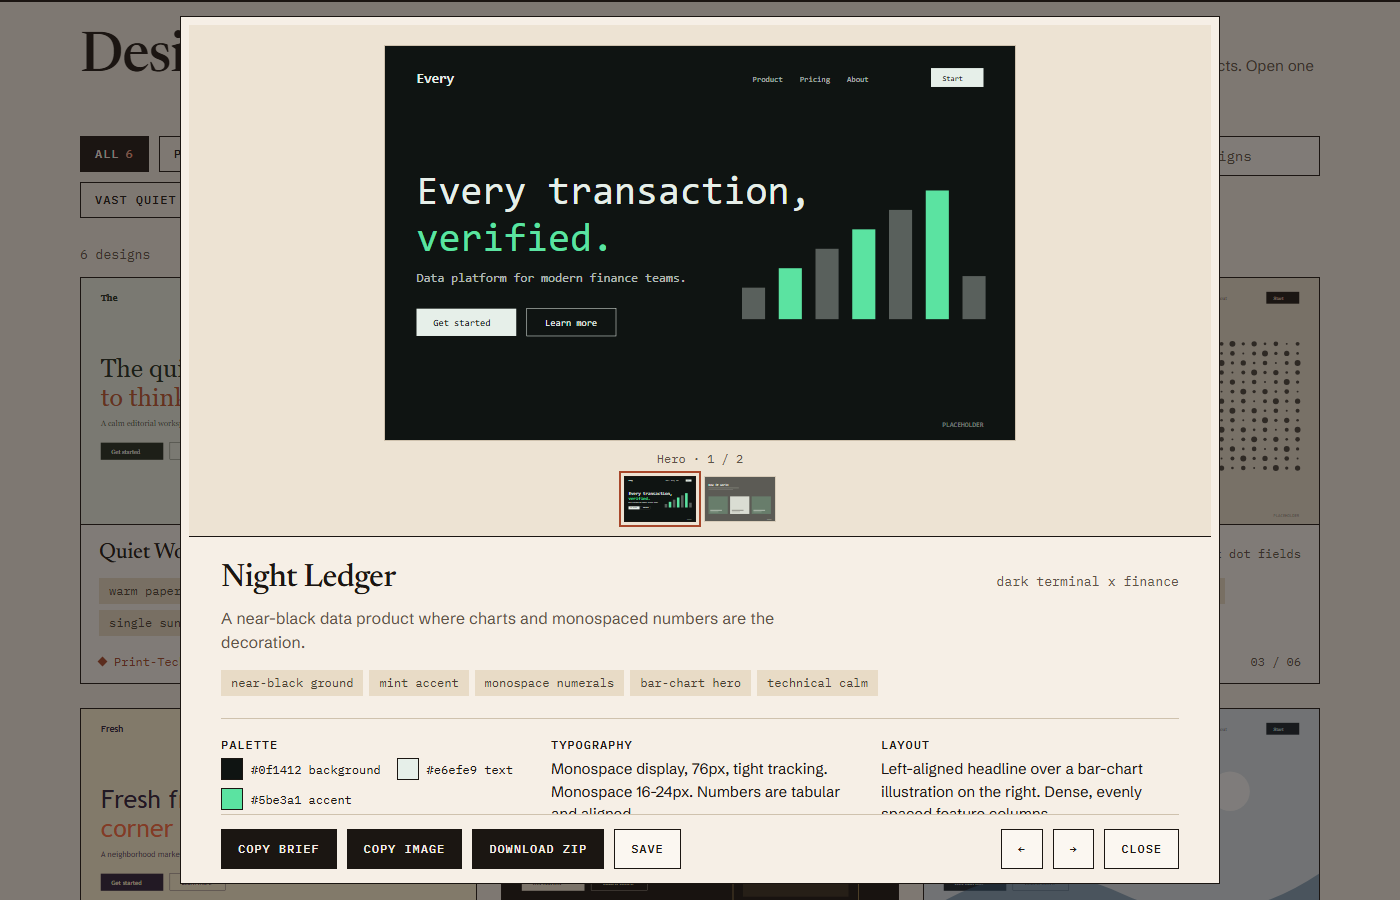
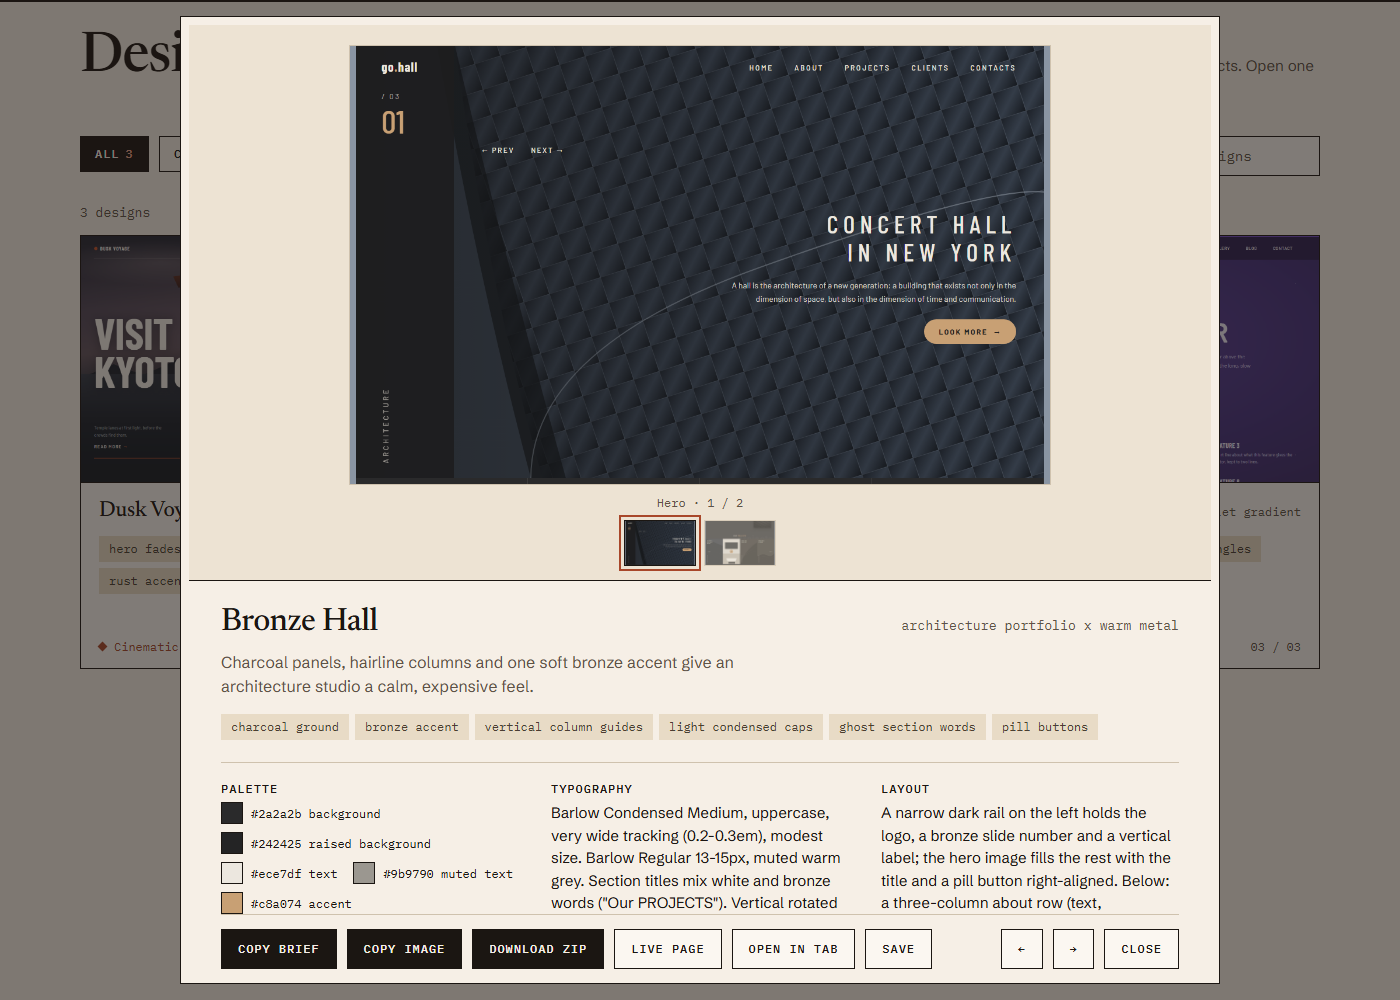
docs: describe the mock-page workflow and refresh screenshots

diff --git a/README.md b/README.md
@@ -6,12 +6,12 @@ A personal library of web design references. I collect designs I like, describe 
 
 ![A design's detail view with the brief and hand-off buttons](docs/screenshot-detail.png)
 
-> The six designs in the repo are placeholders I generated to demo the layout. They have no real source. Real entries come from my own Dribbble collection.
+> Each design is an original mock page I built from a reference screenshot, with made-up content. The pattern and the feeling are the point, not the copy. The raw reference screenshots stay on my computer.
 
 ## What it does
 
 - **Browse** a grid of designs with category filters, live search and a saved list.
-- **Open** a design to see its screenshots, palette, typography, layout and style notes.
+- **Open** a design to see its screenshots, palette, typography, layout and style notes, or switch to the live mock page and scroll it.
 - **Hand off** a design to another Claude session:
   - *Copy brief* copies a structured markdown brief. It lists the image file paths and tells the session to look at them first.
   - *Copy image* puts the current screenshot on the clipboard, ready to paste into a chat.
@@ -33,9 +33,8 @@ It opens <http://localhost:4173>. Use `PORT=4180 node server.mjs` if that port i
 
 ## Add a design
 
-1. Put the screenshots in `images/<design-id>/`.
-2. Copy an entry in `data/designs.js` and fill it in.
-3. Reload the page.
+1. Drop the reference screenshot in `inbox/` and ask Claude for a new batch. It builds the mock page in `designs/<design-id>/`, screenshots it into `images/<design-id>/`, and writes the entry.
+2. Or do it by hand: add the page and images, copy an entry in `data/designs.js`, and reload.
 
 An entry looks like this:
 
@@ -47,6 +46,7 @@ An entry looks like this:
   category: "Data-as-Texture",
   descriptor: "dark terminal x finance",
   summary: "One sentence on the feeling.",
+  page: "designs/night-ledger/index.html",   // optional live mock page
   images: [{ file: "images/night-ledger/cover.png", caption: "Hero" }],
   tags: ["near-black ground", "mint accent"],
   colors: [{ role: "background", hex: "#0f1412" }],
@@ -58,7 +58,6 @@ An entry looks like this:
 }
 ```
 
-Remove `placeholder: true` from any entry that is a real design.
 
 ## Project layout
 
@@ -66,8 +65,10 @@ Remove `placeholder: true` from any entry that is a real design.
 | --- | --- |
 | `index.html`, `styles.css`, `app.js` | The app |
 | `data/designs.js` | The library |
-| `images/` | Screenshots, one folder per design |
-| `fonts/` | Self-hosted Newsreader, IBM Plex Mono and Schibsted Grotesk |
+| `designs/` | The original mock pages, one folder per design |
+| `images/` | Preview screenshots, one folder per design |
+| `inbox/` | Drop zone for reference screenshots (kept local, not committed) |
+| `fonts/` | Self-hosted fonts for the app and the mock pages |
 | `server.mjs`, `start.bat` | Optional local server for image copy and zip |
 | `PRODUCT.md` | Who the app is for and what it must do |
 | `.claude/` | [Impeccable](https://github.com/pbakaus/impeccable) design skill for Claude Code |
